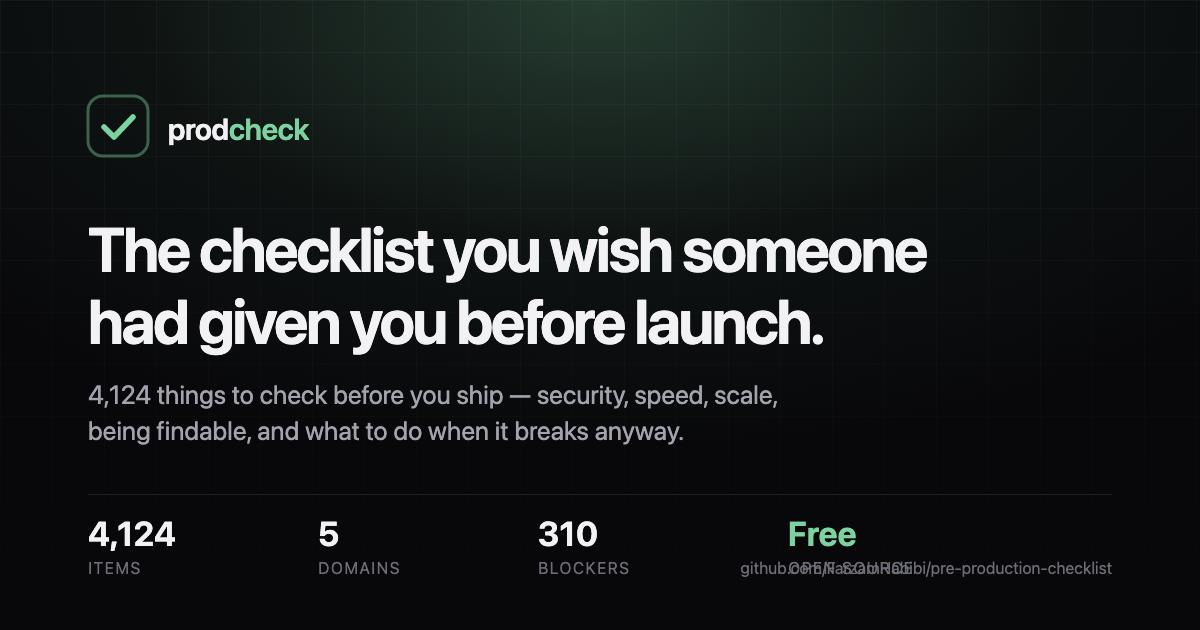
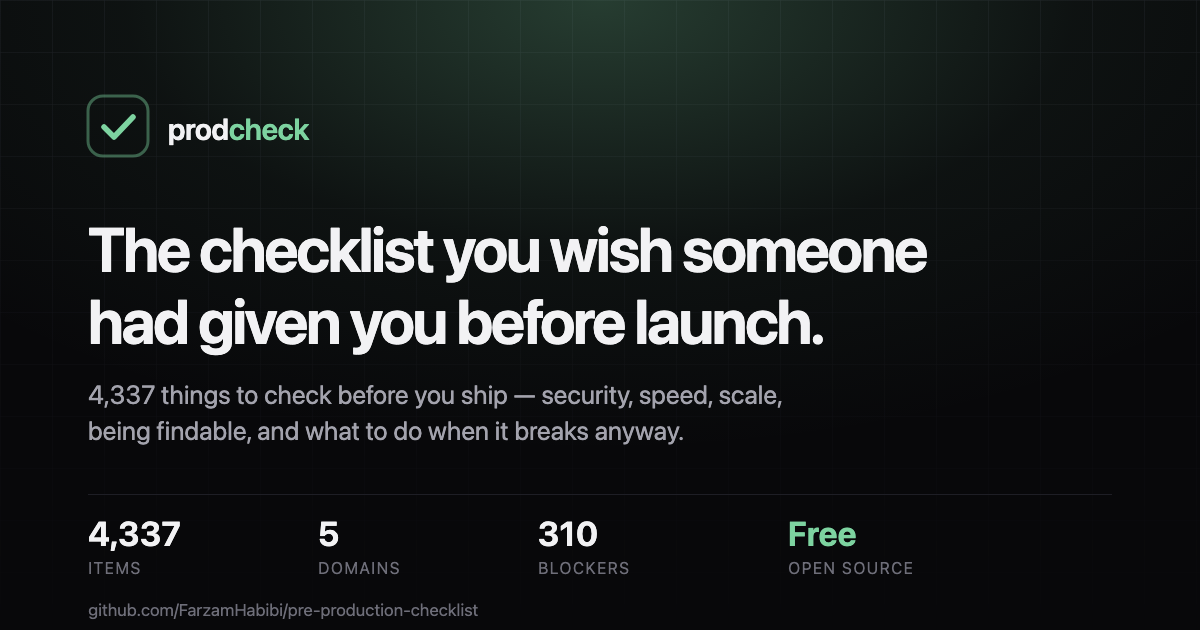
stop the social preview claiming a number that moved
og.png is what every share of this site renders, and it was a hand-made static asset
copied through the build untouched. The item count baked into it was two hundred
items out of date, and nothing checked.

Found it while assembling a launch page: the preview the page pulled from the live
site stated one total while the page beside it stated another.

The SVG is templated from data/checklist.json now, scripts/render_og.sh turns it back
into the PNG the meta tags point at, and the gate fails if og.svg lacks the current
total or if the PNG is older than the SVG it comes from.

Also fixed a collision that predates this: the repository URL was right-anchored on
the same baseline as the OPEN SOURCE label and printed straight through it. It has
its own line under the stat row now, which is the only placement four columns leave.

diff --git a/scripts/build_site.py b/scripts/build_site.py
@@ -489,6 +489,18 @@ def tool_grid(group):
     return "".join(out)
 
 
+OG_NUMBERS = re.compile(r"\{\{(total|domains|gate)\}\}")
+
+
+def og_value(key):
+    """Fill one placeholder in the social preview from the data."""
+    if key == "total":
+        return fmt(C["total"])
+    if key == "domains":
+        return str(len(tree.domains()))
+    return fmt(sum(1 for i in doc["items"] if i["release_gate"] and i["stack"] == "any"))
+
+
 def build_index():
     domains_tbl = "".join(
         f'<tr><td><a class="plain" href="checklists/#{d}"><b>{e(tree.DOMAIN_LABEL[d])}</b></a>'
@@ -961,10 +973,18 @@ def main():
     open(os.path.join(OUT, "_headers"), "w", encoding="utf-8").write(
         HEADERS_TEMPLATE.replace("{SCRIPT_HASH}", f"sha256-{digest}"))
 
-    for src in ("og.png", "og.svg"):
-        p = os.path.join("site-assets", src)
-        if os.path.exists(p):
-            shutil.copyfile(p, os.path.join(OUT, src))
+    # The social preview carries the item count, and it was a static asset — so it kept
+    # showing a long-superseded number on every share of the site. The SVG
+    # is templated from the data now; og.png is regenerated from it by
+    # scripts/render_og.sh, which the gate checks is not stale.
+    og = os.path.join("site-assets", "og.svg")
+    if os.path.exists(og):
+        svg = open(og, encoding="utf-8").read()
+        svg = OG_NUMBERS.sub(lambda m: og_value(m.group(1)), svg)
+        open(os.path.join(OUT, "og.svg"), "w", encoding="utf-8").write(svg)
+    png = os.path.join("site-assets", "og.png")
+    if os.path.exists(png):
+        shutil.copyfile(png, os.path.join(OUT, "og.png"))
 
     open(os.path.join(OUT, "index.html"), "w", encoding="utf-8").write(build_index())
     urls.append(("", "prodcheck — the pre-production checklist for solo founders"))
